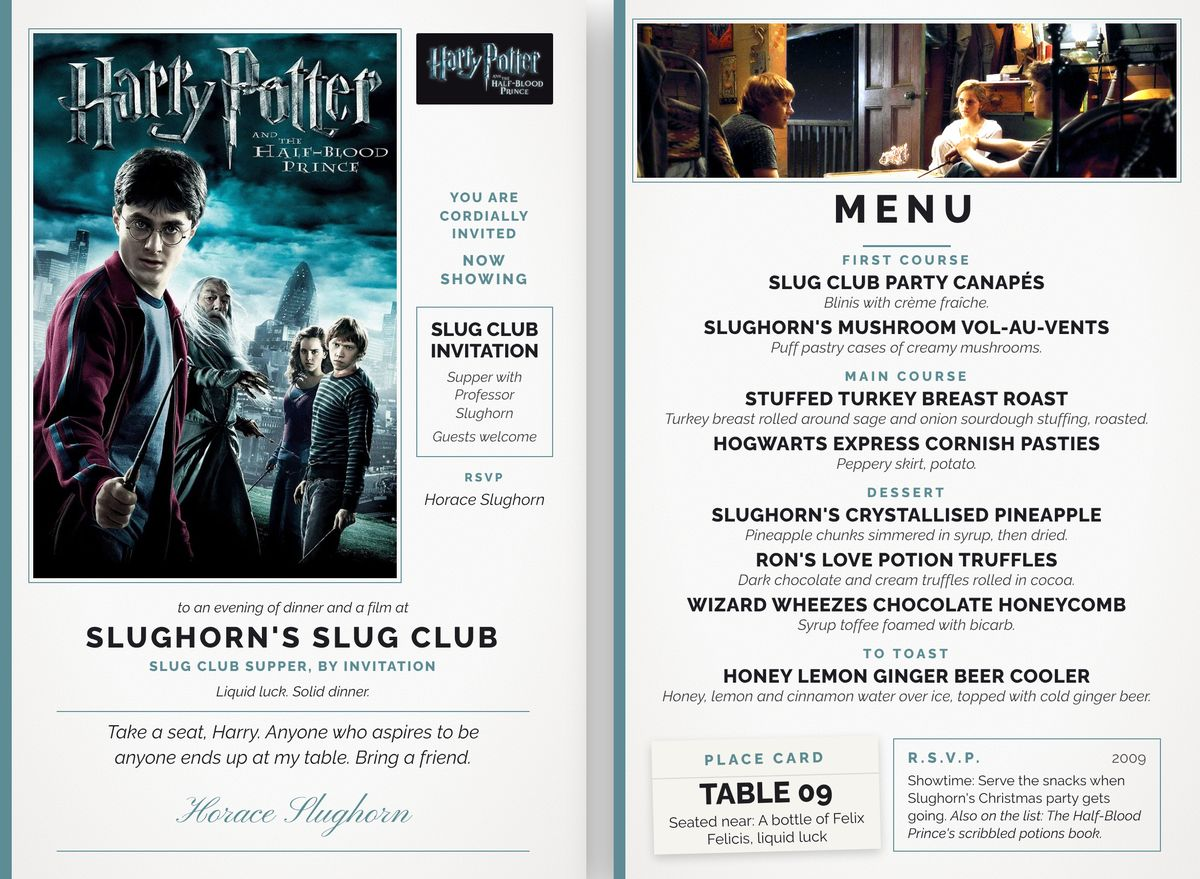
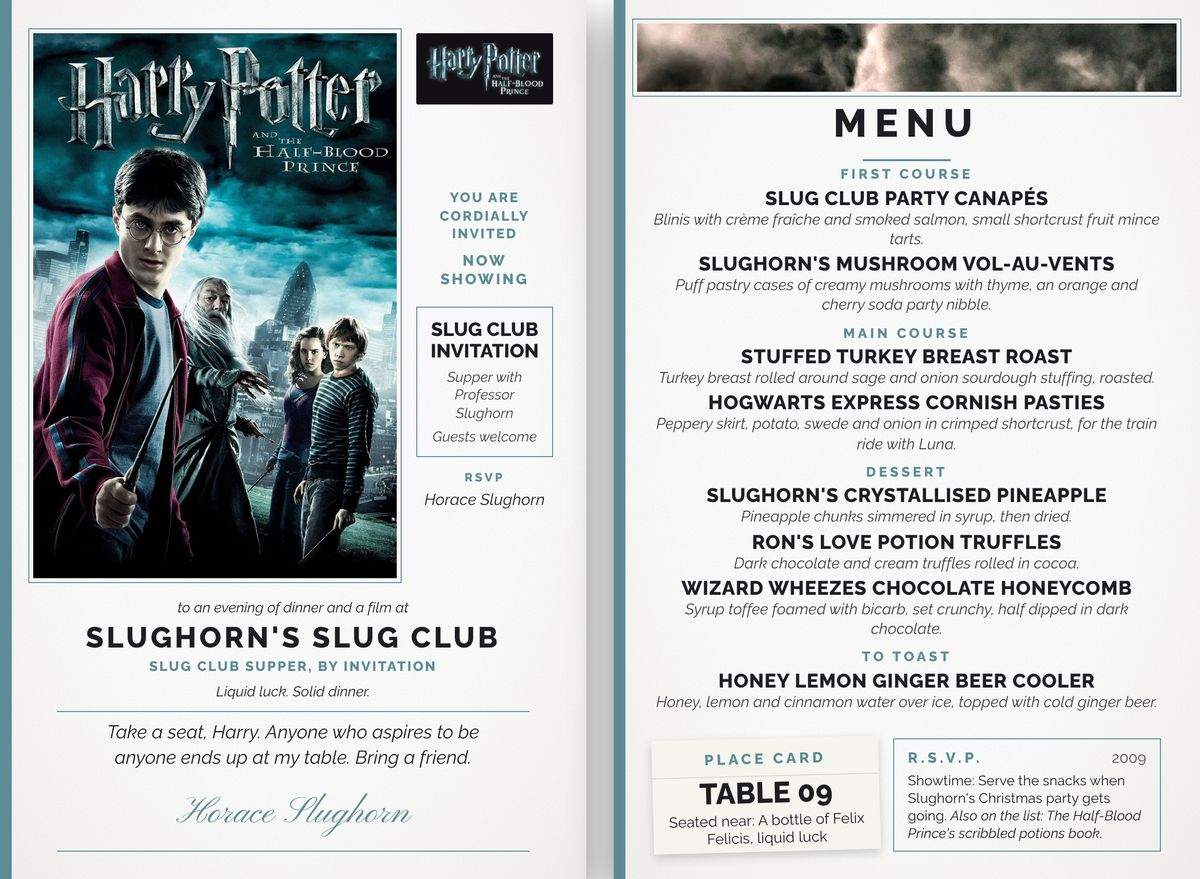
Review 32: invite and precinct print full notes
Claude-Session: https://claude.ai/code/session_01W3UAnF3374TxihYSznsWKE

Changed region(s): [[0.5242, 0.0, 0.9867, 0.8294]]

diff --git a/menu-formats/precinct.js b/menu-formats/precinct.js
@@ -55,6 +55,8 @@ M.fitAll=()=>[...document.querySelectorAll("[data-fit]")].filter(el=>{if(!/^[\d.
   const grow=()=>{if(!give)return;for(let c=8;over(el)&&c<=+el.dataset.grow;c+=8){give.style.height=(+give.dataset.h0-c)+"px";shift.forEach(n=>n.style.top=(+n.dataset.t0-c)+"px");el.style.top=(+el.dataset.t0-c)+"px";el.style.height=(+el.dataset.h0+c)+"px"}};
   const shrink=lo=>{let s=base,g=0;el.style.fontSize=s+"px";while(over(el)&&s>lo&&g++<160){s=Math.max(lo,s-.5);el.style.fontSize=s+"px"}};
   shrink(min);if(!over(el))return;
+  /* review 32 (Josh: room for the full note, not cuts): the photo gives way and the type steps to its note floor before a note is shortened */
+  if(el.querySelector("[data-note]")){grow();if(!over(el))return;shrink(+el.dataset.nlo||Math.round(min*.85));if(!over(el))return}
   /* 15 Nov: dish notes ([data-note]) are shortened before anything is dropped. From the bottom, each is cut at a natural break
      (first sentence, a comma, a joining word), keeping the film's moment where it can (window.__fmtShortFilm): the first cut that fits is kept, else the shortest one if it saves a line.
      Then a data-grow box takes room from its photo, and the type may go to its note floor (data-nlo, else 90 per cent of its floor). Only after that do notes drop from the end, then whole items */
@@ -188,7 +190,11 @@ window.MENU_FORMATS.precinct=function(ctx){
      <div style="display:flex;justify-content:space-between;align-items:baseline;background:${dark};color:#fbf7ee;padding:.18em .45em;margin-bottom:.3em"><span style="font:${E.dw} 1.15em/1.1 ${dd};text-transform:uppercase;letter-spacing:.04em">${SHIFT[c.k][0]}</span><span style="flex:none;margin-left:.5em;font:.72em/1.2 ${bd};letter-spacing:.14em;text-transform:uppercase">${SHIFT[c.k][1]}</span></div>
      ${c.items.map((it,i)=>`<div data-item${i?"":" data-keep"} style="padding:.15em .1em .3em;border-bottom:1px solid rgba(0,0,0,.12)"><div style="display:flex;gap:.5em;justify-content:space-between;align-items:baseline"><span style="font:700 1em/1.15 ${bd};color:${ink}">${x(it.n)}</span><span style="flex:none;font:700 1em/1.15 ${bd};color:${acc}">${priceOf(c,i)}</span></div>${it.note?`<div data-opt data-note style="font:.76em/1.3 ${bd};color:${ink};opacity:.85">${x(it.note)}</div>`:""}</div>`).join("")}
    </div>`;
-  const half=Math.ceil(C.length/2);
+  /* review 32: the two roster columns split where they hold about the same number of dishes, and a long roster takes height from the
+     surveillance photo so every note prints whole */
+  const cnt=c=>c.items.length+c.items.filter(i=>i.note).length*.9,tot=C.reduce((a,c)=>a+cnt(c),0);let half=Math.ceil(C.length/2),bestD=1e9;
+  for(let i=1;i<C.length;i++){const a=C.slice(0,i).reduce((q,c)=>q+cnt(c),0),d=Math.abs(tot-2*a);if(d<bestD){bestD=d;half=i}}
+  const RAISE=Math.max(C.slice(0,half).reduce((q,c)=>q+cnt(c),0),C.slice(half).reduce((q,c)=>q+cnt(c),0))>6.5?110:tot>9?60:0;
   const col=cs=>`<div data-fit="20" style="width:344px;height:100%;overflow:hidden;font-size:26px">${cs.map(shift).join("")}</div>`;
   const back=`${folder(`Duty roster ${x(yy)}`,476)}
    <div style="position:absolute;left:26px;top:74px;width:764px;height:966px;background:${paper};box-shadow:0 6px 16px rgba(0,0,0,.35);transform:rotate(${T.tilt*.15}deg)">
@@ -198,8 +204,8 @@ window.MENU_FORMATS.precinct=function(ctx){
          <div style="font:700 18px/1.25 ${bd};letter-spacing:.14em;text-transform:uppercase;color:${acc};margin-top:6px;white-space:nowrap;overflow:hidden;text-overflow:clip">${x(venue)}</div></div>
        <div style="text-align:right;font:16px/1.35 ${bd};color:${ink}">Form ${x(num)}-B<br>Breakroom, all shifts<br>Coins only</div>
      </div>
-     ${evid(second,26,128,712,340,-T.tilt*.3,"center 40%","Surveillance","10px",secP)}
-     <div style="position:absolute;left:26px;top:490px;width:712px;height:424px;display:flex;justify-content:space-between">
+     ${evid(second,26,128,712,340-RAISE,-T.tilt*.3,"center 40%","Surveillance","10px",secP)}
+     <div style="position:absolute;left:26px;top:${490-RAISE}px;width:712px;height:${424+RAISE}px;display:flex;justify-content:space-between">
        ${C.length?col(C.slice(0,half))+col(C.slice(half)):`<div style="font:22px/1.4 ${bd};color:${ink}">Breakroom closed. Try the vending machine.</div>`}
      </div>
      <div style="position:absolute;left:26px;right:26px;bottom:14px;border-top:1px solid rgba(0,0,0,.25);padding-top:6px;font:16px/1.3 ${bd};color:${ink};opacity:.85">Prices subject to change. Exact change only. ${fam?"Every drink alcohol free. ":""}Photos: TMDB. Filed ${x(f.year||"")}.</div>

diff --git a/menu-formats/invite.js b/menu-formats/invite.js
@@ -146,6 +146,8 @@ M.fitAll=()=>[...document.querySelectorAll("[data-fit]")].filter(el=>{if(!/^[\d.
   const grow=()=>{if(!give)return;for(let c=8;over(el)&&c<=+el.dataset.grow;c+=8){give.style.height=(+give.dataset.h0-c)+"px";shift.forEach(n=>n.style.top=(+n.dataset.t0-c)+"px");el.style.top=(+el.dataset.t0-c)+"px";el.style.height=(+el.dataset.h0+c)+"px"}};
   const shrink=lo=>{let s=base,g=0;el.style.fontSize=s+"px";while(over(el)&&s>lo&&g++<160){s=Math.max(lo,s-.5);el.style.fontSize=s+"px"}};
   shrink(min);if(!over(el))return;
+  /* review 32 (Josh: room for the full note, not cuts): the photo gives way and the type steps to its note floor before a note is shortened */
+  if(el.querySelector("[data-note]")){grow();if(!over(el))return;shrink(+el.dataset.nlo||Math.round(min*.85));if(!over(el))return}
   /* 15 Nov: dish notes ([data-note]) are shortened before anything is dropped. From the bottom, each is cut at a natural break
      (first sentence, a comma, a joining word), keeping the film's moment where it can (window.__fmtShortFilm): the first cut that fits is kept, else the shortest one if it saves a line.
      Then a data-grow box takes room from its photo, and the type may go to its note floor (data-nlo, else 90 per cent of its floor). Only after that do notes drop from the end, then whole items */
@@ -293,7 +295,7 @@ window.MENU_FORMATS.invite=function(ctx){
    ${(second?photo(second,24,24,552,246,"50% 40%",{alts:st.slice(2,5).map(s=>ctx.img(s,"w1280"))}):pos?posterBand(24,24,552,246):"").replace(/^(\s*)<div /,"$1<div data-give ")}
    <div data-shift style="position:absolute;left:0;right:0;top:282px;text-align:center;font:${E.dw} 40px/1 ${dd};${up}letter-spacing:${E.up?".2em":"0"};color:${ink};${press}">Menu</div>
    <div data-shift style="position:absolute;left:0;right:0;top:330px">${rule}</div>
-   <div data-fit="20" data-nlo="17" data-grow="88" style="position:absolute;left:40px;top:346px;width:520px;height:398px;overflow:hidden;text-align:center;font-size:26px;${press}">
+   <div data-fit="20" data-nlo="14" data-grow="150" style="position:absolute;left:40px;top:346px;width:520px;height:398px;overflow:hidden;text-align:center;font-size:26px;${press}">
      ${C.length?C.map(course).join(""):`<div style="font:italic .8em/1.4 ${bd};color:${ink}">The kitchen will surprise you.</div>`}
    </div>
    <div style="position:absolute;left:40px;top:756px;width:232px;height:116px;box-sizing:border-box;padding:12px 14px;background:${E.paper==="#ffffff"?"#f6f4ef":"#fffdf8"};box-shadow:0 4px 10px rgba(0,0,0,.18);text-align:center;transform:rotate(-1.5deg)">
